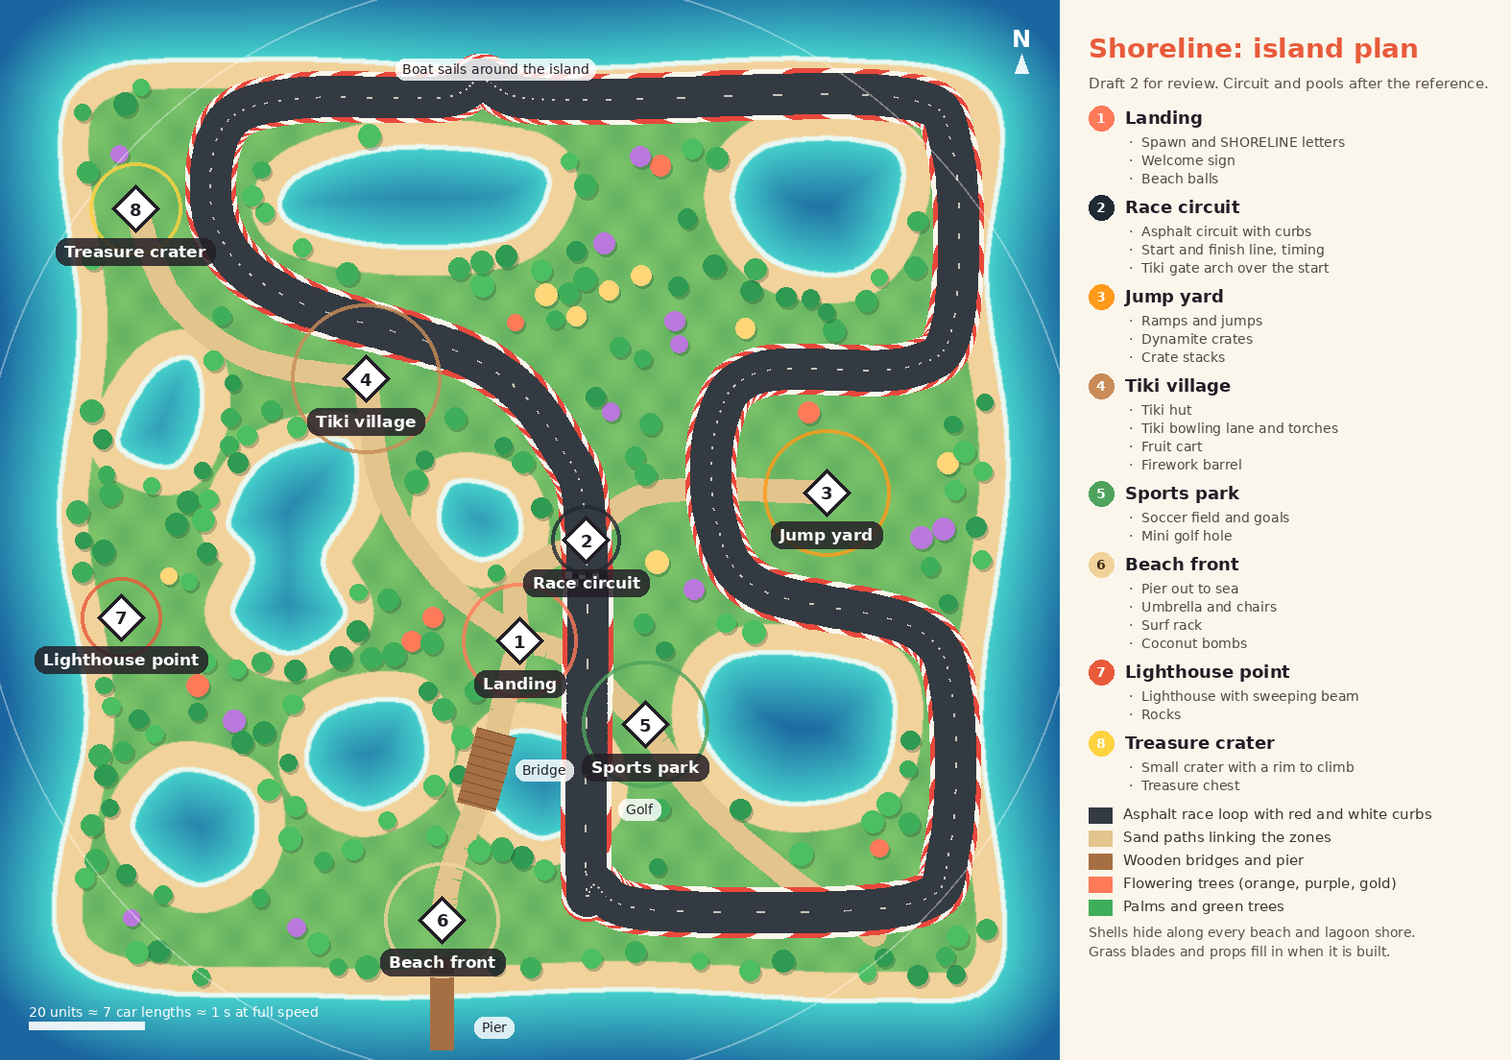
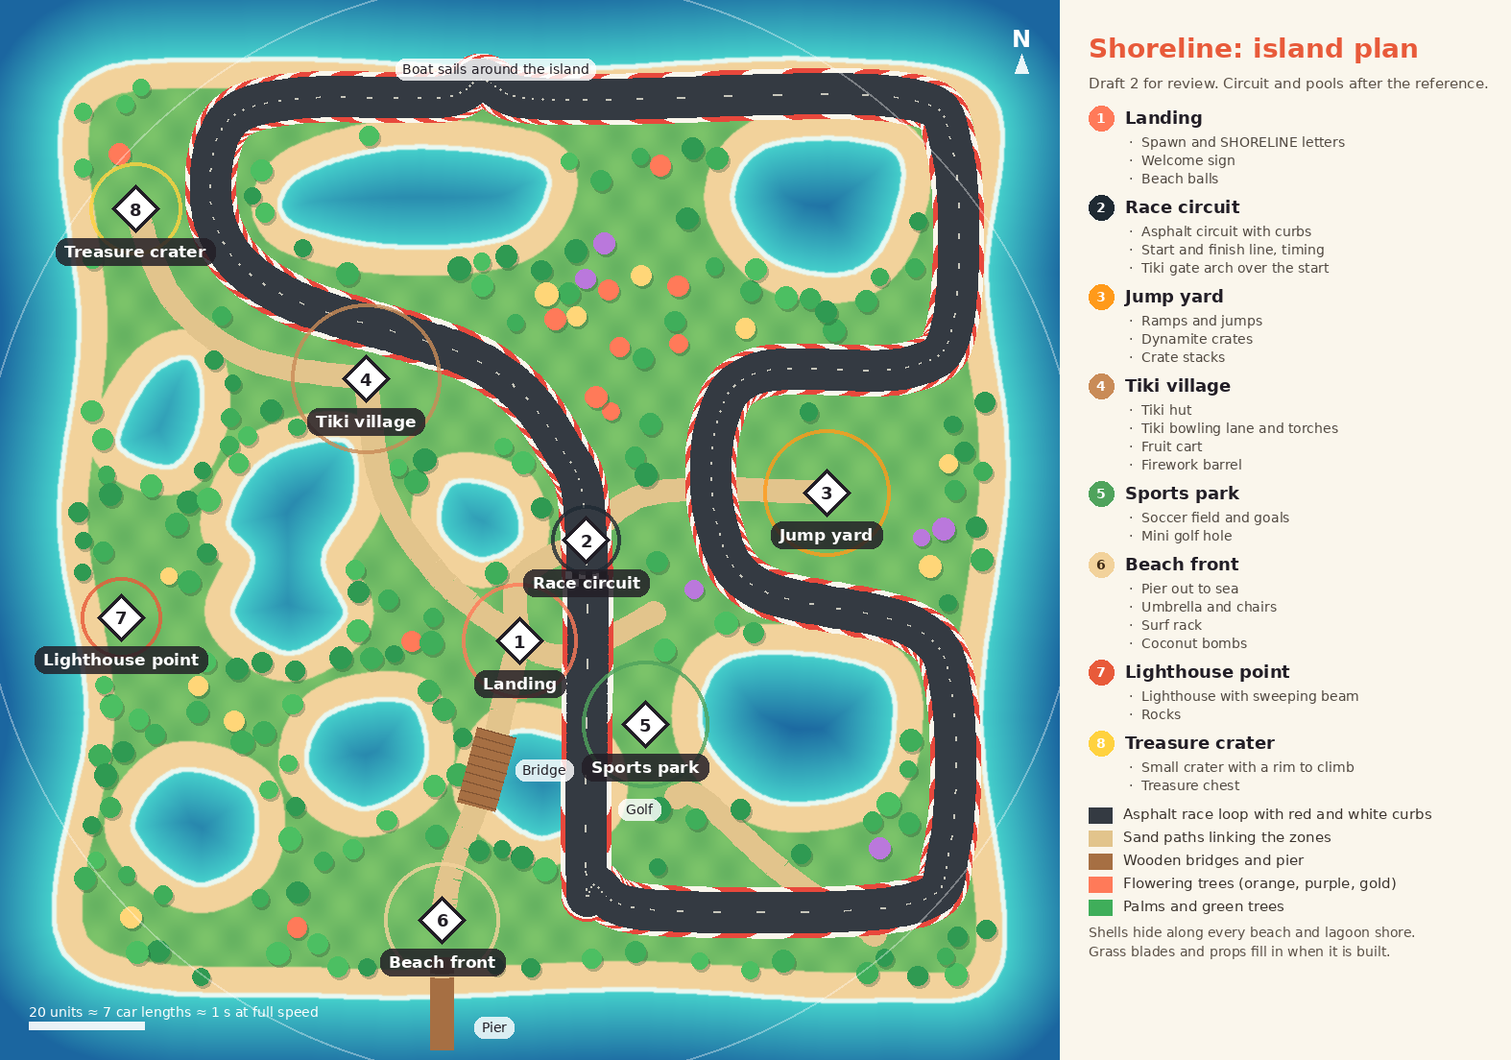
Grass in patches with bare sand and earth between: noise patches plus patches round plants, peaking near the car's roof and tapering to nothing, wide blades leaning outward with dark roots; path split around the soccer pitch, Sports Park sign moved

diff --git a/src/grass.js b/src/grass.js
@@ -8,24 +8,41 @@ import { shade, setGroundTexture } from './shading.js';
 
 // Grass that follows the camera: one patch of single-triangle blades around the view. Blades that drop off
 // the back of the patch wrap round to the front, so it is always dense wherever you drive.
+// The grass grows in patches with bare sand and earth between them (Shauna's call, after the reference's
+// layout): soft blobs from smooth noise, plus patches gathered round the trees and bushes. Each patch rises
+// from nothing at its edge to about the car's roof in the middle, so it has a soft rounded outline, and its
+// blades lean outward from its middle. Play surfaces, paths, the road, the sand and prop footprints stay clear.
 // Where grass grows, how tall it is and the ground height come from small maps of the island baked at load.
-// Height varies by area: tufts in open fields, shorter toward paths, curbs and sand so it never ends in a
-// wall, and short on play surfaces (soccer pitch, golf, bowling apron, beach balls) so they stay readable.
-// Blades turn to face the camera, sway in the island's wind, darken toward the root, vary a little in color
-// and are flattened by the tires (tracks.js).
+// Blades turn to face the camera, sway in the island's wind, are dark at the root and bright at the tip,
+// vary a little in color and are flattened by the tires (tracks.js).
 
 const EXT = 92; // the maps cover [-EXT, EXT] on both axes
 const RES = 0.5; // map texel size in game units
 const N = Math.round((EXT * 2) / RES) + 1;
 const HW = TRACK_W / 2 + CURB_W;
-const BLADE_W = 0.12; // half width
-const BLADE_H = 0.72; // the shader draws open-field blades at 1.4 times this (about 1, half the car), tufts up to about 1.4
+const BLADE_W = 0.2; // half width at the root: wide, flame-shaped spikes
+const BLADE_H = 1.15; // the shader draws a patch's middle at 1.4 times this (about 1.6, near the car's roof)
 const SPACING = 0.29 * (2.85 / 3.25);
+// Patches from noise: how much of the open ground they cover (higher = fewer, smaller patches)
+export const PATCH = { low: 0.36, high: 0.6, fade: 1.8 }; // about 40% of the open ground, plus the patches round plants
 
 const smooth = (a, b, x) => {
   const t = Math.min(1, Math.max(0, (x - a) / (b - a)));
   return t * t * (3 - 2 * t);
 };
+
+// Smooth value noise, about 0 to 1
+function hash(i, j) {
+  const h = Math.sin(i * 127.1 + j * 311.7) * 43758.5453;
+  return h - Math.floor(h);
+}
+function vnoise(x, z) {
+  const i = Math.floor(x), j = Math.floor(z), u = x - i, v = z - j;
+  const su = u * u * (3 - 2 * u), sv = v * v * (3 - 2 * v);
+  const a = hash(i, j), b = hash(i + 1, j), c = hash(i, j + 1), d = hash(i + 1, j + 1);
+  return (a * (1 - su) + b * su) * (1 - sv) + (c * (1 - su) + d * su) * sv;
+}
+const patchNoise = (x, z) => vnoise(x / 9 + 3.1, z / 9 - 7.4) * 0.7 + vnoise(x / 3.6 - 11.2, z / 3.6 + 5.3) * 0.3;
 
 // Spots with no grass at all (prop footprints): [x, z, radius]
 const BARE = [
@@ -33,45 +50,36 @@ const BARE = [
   [LIGHTHOUSE[0], LIGHTHOUSE[1], 2.8], [CHEST[0], CHEST[1], 1.7], [CRATES[0], CRATES[1], 1.5], [FRUIT_CART[0], FRUIT_CART[1], 1.7],
   ...RAMPS.map(([x, z]) => [x, z, 2.2]),
 ];
-const SHORT = 0.25; // height factor on play surfaces
 
 function segDist(px, pz, [ax, az], [bx, bz]) {
   const dx = bx - ax, dz = bz - az, t = Math.max(0, Math.min(1, ((px - ax) * dx + (pz - az) * dz) / (dx * dx + dz * dz)));
   return Math.hypot(px - ax - dx * t, pz - az - dz * t);
 }
 
-// Whether grass grows here: everywhere the ground is green (the same test as groundColor in terrain.js,
-// reaching a little onto the sand so it covers the whole green triangles), off the road, paths and props
-function grassAmount(x, z, y) {
-  if (y < -0.2) return 0;
-  const sd = landSD(x, z), td = trackDist(x, z);
-  if (!(sd >= 3.7 || td <= HW + 1.5) || td <= HW + 0.05 || pathDist(x, z) <= PATH_W / 2 || onBridge(x, z, 0.5)) return 0;
-  for (const [bx, bz, r] of BARE) if (Math.hypot(x - bx, z - bz) < r) return 0;
-  if (Math.abs(x - BOWLING.x) < 9 && Math.abs(z - BOWLING.z) < 2.2) return 0;
+// How tall the grass is here, 0 (none) to 1 (the middle of a patch)
+export function grassHeight(x, z, y, plants) {
+  if (y < -0.2 || onBridge(x, z, 0.5)) return 0;
   if (y > GROUND + 0.25 && Math.hypot(x - CHEST[0], z - CHEST[1]) < 6.5) return 0; // bare crater rim
-  return 1;
-}
-
-// How tall the grass is here, 0 to 1 (1 = open field, before tufts)
-function grassHeight(x, z) {
   const sd = landSD(x, z), td = trackDist(x, z);
-  let e = Math.min(td - HW, pathDist(x, z) - PATH_W / 2);
-  if (td > HW + 1.5) e = Math.min(e, sd - 3.9);
+  // Room: how far inside the ground grass may use, away from sand, road, paths, props and play surfaces
+  let e = Math.min(sd - 4.2, td - HW - 0.3, pathDist(x, z) - PATH_W / 2 - 0.2);
   for (const [bx, bz, r] of BARE) e = Math.min(e, Math.hypot(x - bx, z - bz) - r);
-  e = Math.min(e, Math.max(Math.abs(x - BOWLING.x) - 9, Math.abs(z - BOWLING.z) - 2.2));
-  let f = 0.4 + 0.6 * smooth(0, 2.5, e); // shrinks into every edge
-  // Play surfaces stay short
+  e = Math.min(e, Math.max(Math.abs(x - BOWLING.x) - 10.5, Math.abs(z - BOWLING.z) - 3.5)); // bowling lane and apron
   const { x: sx, z: sz, angle, length, width } = SOCCER;
-  const along = Math.abs((x - sx) * Math.cos(angle) + (z - sz) * Math.sin(angle)) - (length / 2 + 1.2);
-  const across = Math.abs(-(x - sx) * Math.sin(angle) + (z - sz) * Math.cos(angle)) - (width / 2 + 1.2);
-  const play = [
-    Math.max(along, across), // soccer pitch
-    segDist(x, z, GOLF.green, GOLF.tee) - 3.5, // golf
-    Math.max(Math.abs(x - BOWLING.x) - 11, Math.abs(z - BOWLING.z) - 4), // bowling apron
-    ...BEACH_BALLS.map(([bx, bz]) => Math.hypot(x - bx, z - bz) - 2), // beach balls
-  ];
-  for (const d of play) f = Math.min(f, SHORT + (1 - SHORT) * smooth(0, 2, d));
-  return f;
+  const along = Math.abs((x - sx) * Math.cos(angle) + (z - sz) * Math.sin(angle)) - (length / 2 + 1.5);
+  const across = Math.abs(-(x - sx) * Math.sin(angle) + (z - sz) * Math.cos(angle)) - (width / 2 + 1.5);
+  e = Math.min(e, Math.max(along, across), segDist(x, z, GOLF.green, GOLF.tee) - 4);
+  for (const [bx, bz] of BEACH_BALLS) e = Math.min(e, Math.hypot(x - bx, z - bz) - 2.5);
+  if (e <= 0) return 0;
+  // Patches: noise blobs, and a patch round each tree and bush
+  let p = smooth(PATCH.low, PATCH.high, patchNoise(x, z));
+  for (const [px, pz, r] of plants) {
+    const d = Math.hypot(x - px, z - pz);
+    if (d < r * 2.2) p = Math.max(p, 1 - smooth(r * 0.6, r * 2.2, d));
+  }
+  // Fade out toward the edges of the room, so patches never end in a wall
+  p *= smooth(0, PATCH.fade, e);
+  return p < 0.04 ? 0 : p;
 }
 
 function dataTexture(data, format = THREE.RGBAFormat) {
@@ -83,8 +91,10 @@ function dataTexture(data, format = THREE.RGBAFormat) {
 }
 
 export class Grass {
-  constructor(scene, renderer, { small = false } = {}) {
+  // plants: [x, z, radius] of trees and bushes (each gathers a grass patch round it)
+  constructor(scene, renderer, { small = false, plants = [] } = {}) {
     this.scene = scene;
+    this.plants = plants;
     this.tracks = new Tracks(renderer);
     this.size = 40;
     this.subdivisions = small ? 240 : 280; // as in the reference: 280 x 280 blades
@@ -92,7 +102,7 @@ export class Grass {
     this.buildMesh();
   }
 
-  // Ground color (also used for the light bounced off the ground), and grass amount, ground height and grass height
+  // Ground color (also used for the light bounced off the ground), and grass presence, ground height and grass height
   bakeMaps() {
     const ground = new Uint8Array(N * N * 4), grass = new Uint8Array(N * N * 4);
     const c = new THREE.Color();
@@ -101,15 +111,15 @@ export class Grass {
       for (let i = 0; i < N; i++) {
         const x = -EXT + i * RES, k = (j * N + i) * 4;
         const y = heightAt(x, z);
-        const g = grassAmount(x, z, y);
-        if (g) grassColor(x, z, c); // blades take the grass color, even where they reach onto the sand
+        const h = grassHeight(x, z, y, this.plants);
+        if (h > 0) grassColor(x, z, c); // blades take the grass color
         else groundColor(x, z, y, c);
         if (trackDist(x, z) < HW && landSD(x, z) > -2) c.set('#3a4149');
         else if (pathDist(x, z) < PATH_W / 2 && landSD(x, z) > 0.3) c.set('#e2c48c');
         ground[k] = c.r * 255; ground[k + 1] = c.g * 255; ground[k + 2] = c.b * 255; ground[k + 3] = 255;
-        grass[k] = g * 255;
+        grass[k] = h > 0 ? 255 : 0;
         grass[k + 1] = Math.round(Math.min(1, Math.max(0, (y + 0.5) / 3.5)) * 255);
-        grass[k + 2] = g ? Math.round(grassHeight(x, z) * 255) : 0;
+        grass[k + 2] = Math.round(h * 255);
         grass[k + 3] = 255;
       }
     }
@@ -186,20 +196,27 @@ export class Grass {
           vec2 wp = uCenter + rel;
           vec2 duv = ( wp + uExt ) / ( 2.0 * uExt );
           vec4 gd = texture2D( uGrassData, duv );
-          float m = smoothstep( 0.25, 0.75, gd.r ); // grass amount, soft at the edges
-          m *= 1.0 - smoothstep( uSize * 0.46, uSize * 0.5, max( abs( rel.x ), abs( rel.y ) ) ); // fade at the very edge of the patch
+          float m = 1.0 - smoothstep( uSize * 0.46, uSize * 0.5, max( abs( rel.x ), abs( rel.y ) ) ); // fade at the very edge of the patch
           float groundY = gd.g * 3.5 - 0.5;
-          float area = gd.b; // 1 in open fields, lower toward edges and on play surfaces
-          float tuft = mix( 1.0, 0.72 + 0.65 * texture2D( uWindNoise, wp * 0.09 ).r, smoothstep( 0.55, 0.95, area ) ); // tufts in open fields
-          float h = uBladeH * 1.4 * area * tuft * ( 0.82 + 0.18 * position.y ) * m;
+          float area = gd.b; // 0 outside patches, 1 in their middles
+          // Which way is out of the patch (downhill on the height map): edge blades lean that way
+          float e = 1.0 / ( 2.0 * uExt );
+          vec2 grad = vec2( texture2D( uGrassData, duv + vec2( e, 0.0 ) ).b - texture2D( uGrassData, duv - vec2( e, 0.0 ) ).b,
+                            texture2D( uGrassData, duv + vec2( 0.0, e ) ).b - texture2D( uGrassData, duv - vec2( 0.0, e ) ).b );
+          float tuft = 0.8 + 0.4 * texture2D( uWindNoise, wp * 0.11 ).r;
+          float h = uBladeH * 1.4 * smoothstep( 0.0, 1.0, area ) * tuft * ( 0.75 + 0.25 * position.y ) * m;
           h *= 1.0 - 0.85 * trackAt( wp ); // flattened by the tires
           int vi = gl_VertexID % 3;
           float tip = vi == 0 ? 1.0 : 0.0;
           float side = vi == 1 ? 1.0 : ( vi == 2 ? -1.0 : 0.0 );
           vec2 toCam = normalize( wp - cameraPosition.xz + vec2( 1e-4 ) );
           vec3 transformed = vec3( wp.x, groundY - 0.02, wp.y );
-          transformed.xz += vec2( -toCam.y, toCam.x ) * side * uBladeW * step( 0.001, h );
+          transformed.xz += vec2( -toCam.y, toCam.x ) * side * uBladeW * step( 0.001, h ) * ( 0.7 + 0.3 * smoothstep( 0.0, 0.5, area ) );
           transformed.y += tip * h;
+          // Lean: outward from the patch's middle, plus a little random direction per blade
+          float ra = fract( position.y * 13.7 ) * 6.2832;
+          vec2 lean = -grad * 6.0 + vec2( cos( ra ), sin( ra ) ) * 0.25;
+          transformed.xz += lean * tip * h * 0.45;
           transformed.xz += uWindDir * windGust( wp ) * uWindStrength * tip * h * 2.0;
           vTip = tip; vRand = fract( position.y * 7.31 );
           vShadeExtra = 1.0 - tip; // fully in shade at the root, sunlit at the tip
@@ -211,7 +228,7 @@ export class Grass {
         // Each blade a little lighter or darker, tips brighter and a touch more golden
         .replace('vec4 diffuseColor = vec4( diffuse, opacity );', `
           vec3 bladeColor = vGroundColor * ( 0.9 + 0.2 * vRand );
-          bladeColor = mix( bladeColor, bladeColor * vec3( 1.2, 1.16, 0.92 ), vTip );
+          bladeColor = mix( bladeColor * 0.7, bladeColor * vec3( 1.28, 1.22, 0.9 ), vTip ); // dark roots, bright golden tips
           vec4 diffuseColor = vec4( bladeColor, opacity );`);
     };
     shade(mat, { extra: true });

diff --git a/src/terrain.js b/src/terrain.js
@@ -51,6 +51,7 @@ const WET = new THREE.Color('#d9b27a');
 const GRASS = new THREE.Color('#b9b23c');
 const GRASS2 = new THREE.Color('#a2a636');
 const RIM = new THREE.Color('#c9a36b');
+const EARTH = new THREE.Color('#d6a66c'); // packed earth, mixed with sand on the open ground between grass patches
 
 // The grass color of the ground at a point
 export function grassColor(x, z, c = new THREE.Color()) {
@@ -58,8 +59,8 @@ export function grassColor(x, z, c = new THREE.Color()) {
   return c.copy(GRASS).lerp(GRASS2, n * 0.6).offsetHSL(0, 0, (n - 0.5) * 0.04);
 }
 
-// Where grass grows (set by grass.js): the terrain is green exactly there and bare (sand) everywhere else,
-// so the green ground and the grass always end on the same line
+// Where grass grows (set by grass.js): the terrain is green under the grass patches and bare (sand and
+// packed earth) everywhere else
 export const TERRAIN_GRASS = { uGrassMap: { value: null }, uGrassExt: { value: 1 } };
 
 // Ground color at a point, without grass (shared by the terrain mesh, the grass and the light bounced off the ground)
@@ -104,7 +105,10 @@ export function buildTerrain(scene, world) {
     const cz = (fp.getZ(i) + fp.getZ(i + 1) + fp.getZ(i + 2)) / 3;
     groundColor(cx, cz, y, c);
     grassColor(cx, cz, g);
-    if (isGreen(cx, cz, y)) c.copy(SAND); // bare where grass does not grow
+    if (isGreen(cx, cz, y)) { // open ground between the grass patches: sand and packed earth
+      const n = (Math.sin(cx * 0.21 + cz * 0.13) * Math.sin(cz * 0.17 - cx * 0.09) + 1) * 0.5;
+      c.copy(SAND).lerp(EARTH, smooth(0.35, 0.75, n) * 0.85).offsetHSL(0, 0, (((cx * 7.3 + cz * 3.1) % 1 + 1) % 1 - 0.5) * 0.03);
+    }
     for (let k = 0; k < 3; k++) { colors.set([c.r, c.g, c.b], (i + k) * 3); greens.set([g.r, g.g, g.b], (i + k) * 3); }
   }
   flatGeo.setAttribute('color', new THREE.BufferAttribute(colors, 3));
@@ -120,8 +124,8 @@ export function buildTerrain(scene, world) {
       .replace('#include <common>', '#include <common>\nuniform sampler2D uGrassMap; uniform float uGrassExt; varying vec3 vGrassColor; varying vec2 vGrassXZ;')
       .replace('#include <color_fragment>', `#include <color_fragment>
         {
-          float grass = texture2D( uGrassMap, ( vGrassXZ + uGrassExt ) / ( 2.0 * uGrassExt ) ).r;
-          diffuseColor.rgb = mix( diffuseColor.rgb, vGrassColor, smoothstep( 0.4, 0.6, grass ) );
+          float grass = texture2D( uGrassMap, ( vGrassXZ + uGrassExt ) / ( 2.0 * uGrassExt ) ).b; // patch height
+          diffuseColor.rgb = mix( diffuseColor.rgb, vGrassColor * 0.8, smoothstep( 0.12, 0.4, grass ) ); // darker green under the patches
         }`);
   };
   mat.customProgramCacheKey = () => 'terrain-grass'; // its own shader program, not shared with other standard materials

diff --git a/src/main.js b/src/main.js
@@ -133,7 +133,9 @@ async function start() {
   const circuit = new Circuit({ scene, world, island, ui, fx, car, arch: extraModels.arch });
   buildBridges(scene, island, extraModels.pier);
   const flora = new Flora(scene, world, island, extraModels);
-  const grass = new Grass(scene, renderer, { small: Math.min(innerWidth, innerHeight) < 600 });
+  // Each tree and bush gathers a grass patch round it
+  const plants = flora.groups.flatMap((g) => g.spots.map((sp) => [sp.x, sp.z, g.bush ? 1.4 : 2.6]));
+  const grass = new Grass(scene, renderer, { small: Math.min(innerWidth, innerHeight) < 600, plants });
   const shells = new ShellHunt(scene, ui, 8, { conch: conchModel, scallop: scallopModel, cowrie: cowrieModel }, (x, z) => island.isOpen(x, z, 0.5));
   applyShading(scene);
 

diff --git a/src/layout.js b/src/layout.js
@@ -45,7 +45,7 @@ export const CHEST = Z('crater');
 export const ZONE_SIGNS = [
   ['Tiki Village', -21, -11],
   ['Jump Yard', 39, -2],
-  ['Sports Park', 17, 16.5],
+  ['Sports Park', 26, 15.5],
   ['Beach', -9.5, 60],
   ['Treasure Crater', -60, -44],
   ['Lighthouse', -66, 22],

diff --git a/_docs/PROJECT_STATUS.md b/_docs/PROJECT_STATUS.md
@@ -19,7 +19,7 @@ A browser driving game and portfolio piece: drive a little coral off-roader arou
 - **Zones**: Landing (spawn, SHORELINE letters, welcome and Shell Hunt signs, beach balls), Race circuit, Jump yard (four ramps, crate stack, dynamite), Tiki village (hut you can drive through, bowling lane and torches, fruit cart, firework barrel), Sports park (soccer field and goals, mini golf), Beach front (pier, umbrella and chairs, surf rack, coconut bombs), Lighthouse point (lighthouse, rocks), Treasure crater (small rim to climb, chest that spills gold doubloons). Each zone has a wooden sign.
 - **Nature**: 110 swaying palms along the beaches and pool shores, 57 flowering trees (poinciana, jacaranda, plumeria, golden shower) inland (120 are tried; the rest find no room clear of paths, props and other trees), 90 hibiscus and monstera bushes you can drive through (they shake).
 - **Leaf clumps** (`src/foliage.js`), the reference site's technique, reworked 2026-10-27 for detail: trunks, branches and flowers stay Shauna's models, and each tree's canopy parts mark where leaf clumps go, how big and what color. Canopy parts only merge when close (`R * 1.2`), so each tree has more, smaller, separate clumps (radius `R * 0.6` to `R * 1.1`) and its branches show between them. A clump is a loose ball of 80 cards (50 on small screens), mostly on a shell near its surface with a few strays past it for a ragged edge. Each card shows one small leaf (0.3 units, a fixed world size whatever the clump's size), turned toward the camera, shaded from a deep shadow-side color (base x 0.5, a touch toward purple) to a bright sunlit one, each leaf a little lighter or darker and each plant a slightly different hue, fluttering in the shared wind, casting leaf-shaped shadows and thinning out near the car. Hibiscus leaves are clumps too; the monstera keeps its own split leaves (confirmed). Fallback: `clump: null` for a species in `src/flora.js` shows its modeled canopy instead.
-- **Grass** (`src/grass.js`), reworked 2026-10-27: follows the camera, one patch of 78,400 single-triangle blades (57,600 on small screens), a blade every 0.25 units, wrapping round as you drive. Open fields are about 1 tall (half the car) with tufts up to about 1.4; the grass shrinks into every edge (paths, curbs, sand, bare spots) instead of ending in a wall, and is short (about 0.25 of full) on the soccer pitch, golf, the bowling apron and around the beach balls so they stay readable. It grows wherever the ground is green (including the green apron beside the circuit), reaching a little onto the sand. The terrain reads the same grass map per pixel (`TERRAIN_GRASS` in `src/terrain.js`): green exactly where grass grows and sand everywhere else, so no green ground shows outside the grass. Blades face the camera, vary a little in shade, have brighter golden tips, are shaded at the root, sway in the shared wind (`src/wind.js`, also used by the leaves), and are flattened by smooth tire tracks (`src/tracks.js`: a small map around the car drawn on the GPU, one soft strip per wheel, growing back over about a minute). Bare spots, trimmed to the prop footprints: hut floor, bowling lane, golf green and tee, ramps, crates, fruit cart, lighthouse base, crater rim. Height map: blue channel of the grass data texture (`grassHeight()`); constants `BLADE_H`, `BLADE_W`, `SHORT`.
+- **Grass** (`src/grass.js`), patch layout 2026-10-27: grass grows in patches with bare sand and packed earth between them, like the reference's layout. Patches come from smooth noise (`PATCH` low/high/fade: about 40% of the open ground) plus a patch gathered round every tree (radius 2.6) and bush (1.4). Each patch rises from nothing at its edge to about 1.6 in the middle (near the car's roof), so it has a soft rounded outline; its blades are wide flame-shaped spikes (`BLADE_W` 0.2 half width) that lean outward from its middle, with dark roots and bright golden tips. Sand, the road, paths, prop footprints, the soccer pitch, golf, the bowling lane and apron and the beach balls stay clear. One camera-following patch of 78,400 single-triangle blades (57,600 on small screens), a blade every 0.25 units. The terrain reads the same map (`TERRAIN_GRASS` in `src/terrain.js`): darker green under the patches, sand mixed with packed earth everywhere else. Blades sway in the shared wind (`src/wind.js`) and are flattened by smooth tire tracks (`src/tracks.js`, growing back over about a minute).
 - **Shading** (`src/shading.js`) is one hand-made recipe for every lit material, like the reference site's: lit side is the base color times a warm sun color (#ffe4d2, 1.2), the shadow side and cast shadows are the base color times a deep purple tint (#7650e6, never gray), and undersides near the ground pick up the ground color. Tone mapping is off.
 - **Boat** sails the `boatLoop` circle around the island.
 - **Camera and proportions** match the reference site, scaled to our car (2.85 long against its 3.25): a narrow 25 degree lens, 41 degrees above the ground, looking in diagonally (45 degrees), 27 units from the car by default (set by matching the car's size on screen side by side with the live reference), mouse wheel zooms from 13 to 40, pulling back with speed and further on tall phone screens. Trees are 6 to 8 tall, the reference's tree to car ratio. Trees, palms and the start arch thin out with a dither pattern when they stand between the camera and the car.
@@ -49,11 +49,13 @@ A browser driving game and portfolio piece: drive a little coral off-roader arou
 | 2026-10-27 | Grass rework after Shauna's drive: the full-length grass was too tall everywhere and stopped short of the green ground. Now about half the car's height with tufts, shorter toward edges, short on play surfaces, and grown by the same green test as the ground colors. Soccer pitch short and playable (Shauna confirmed). Replaces the 2026-10-26 full-length decision. |
 | 2026-10-27 | Leaf clumps were too heavy and blocky (each card was a sheet of about 20 leaves, 85 cards per ball). Reworked for detail rather than reverted to the modeled canopies: one small leaf per card, looser and smaller separate clumps, stronger light to dark range. Monstera keeps its split leaves (Shauna confirmed). |
 | 2026-10-27 | No green ground outside the grass (Shauna asked): the terrain takes its green from the grass map instead of per triangle; bare spots and edges are sand. |
+| 2026-10-27 | Grass in patches with bare sand and earth between (Shauna's call after comparing side by side with the reference in her Chrome): the half-height lawn read as stubble and wall-to-wall lawn as carpet. Patches peak near the car's roof and taper to nothing; blades wide, leaning outward, dark at the root. Replaces the earlier lawn rows above. |
+| 2026-10-27 | The sand path that crossed the soccer pitch is split: one path from the landing ends south of the pitch, the next starts north of it (Claude recommended, Shauna approved). Sports Park sign moved to (26, 15.5) beside the new path end. |
 | 2026-10-27 | From Bruno Simon's devlog 2: one shared wind for grass and leaves, smooth tire tracks drawn on the GPU, per-blade color variation, and a stats-gl performance panel behind `?debug`. |
 
 ## Next
 
-1. Shauna drives the reworked grass and trees and judges them side by side with the reference; tune `BLADE_H`, tuft range and the edge ramp in `src/grass.js`, and `CARDS`, `CARD` and `clumpColors` in `src/foliage.js`.
+1. Shauna drives the grass patches and trees and judges them side by side with the reference; tune `PATCH`, `BLADE_H` and `BLADE_W` in `src/grass.js`, the plant patch radii in `src/main.js`, and `CARDS`, `CARD` and `clumpColors` in `src/foliage.js`.
 2. Phone check on a real device with `?debug` (stats-gl panel: frame rate, CPU and GPU time).
 3. Sound effects and CC0 music (not the reference site's).
 4. Achievements and reasons to keep playing (a list of goals across the mini games, saved in localStorage, shown in a small panel).
@@ -61,7 +63,7 @@ A browser driving game and portfolio piece: drive a little coral off-roader arou
 
 ## Open questions for Shauna
 
-- A sand path runs diagonally across the soccer pitch (it was hidden by the tall grass). Reroute the path around the pitch, or move the pitch?
+- None right now.
 
 ## Known notes
 
